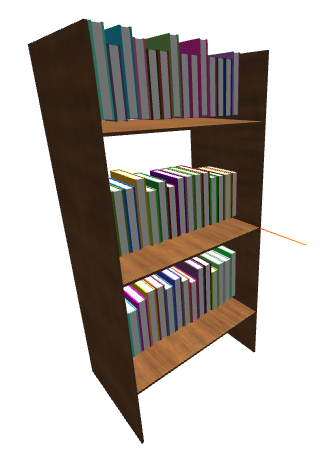
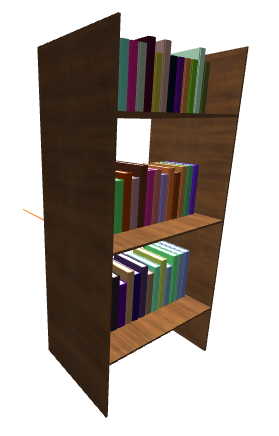
Fix position of books

diff --git a/lab1/library.html b/lab1/library.html
@@ -37,60 +37,62 @@
 			var axesHelper = new THREE.AxesHelper( 5 );
 			scene.add( axesHelper );
 
-			
+			var teste = makeShelfWithBooks();
+			scene.add(teste);
+
 			//criacao dos objetos da cena
-			var shelf = makeShelfWithBooks();
-			var positions = [-10,0,10];
-			var shelfGroup = new THREE.Group();
-			for (var i=0;i<positions.length;i++){
-				var a = shelf.clone();
-				a.position.x = positions[i];
-				a.position.y = +7.5;
-				shelfGroup.add(a);
-			}
-			scene.add(shelfGroup);
+			// var shelf = makeShelfWithBooks();
+			// var positions = [-10,0,10];
+			// var shelfGroup = new THREE.Group();
+			// for (var i=0;i<positions.length;i++){
+			// 	var a = shelf.clone();
+			// 	a.position.x = positions[i];
+			// 	a.position.y = +7.5;
+			// 	shelfGroup.add(a);
+			// }
+			// scene.add(shelfGroup);
 
-			var desk = makeDesk();
-			var positions = [-15,0,15];
-			var position_z =  25
-			var deskGroup = new THREE.Group();
-			for (var i=0;i<positions.length;i++){
-				var a = desk.clone();
-				a.position.x = positions[i];
-				a.position.z = position_z;
-				a.position.y = 0;
-				deskGroup.add(a);
-			}
-			scene.add(deskGroup);
+			// var desk = makeDesk();
+			// var positions = [-15,0,15];
+			// var position_z =  25
+			// var deskGroup = new THREE.Group();
+			// for (var i=0;i<positions.length;i++){
+			// 	var a = desk.clone();
+			// 	a.position.x = positions[i];
+			// 	a.position.z = position_z;
+			// 	a.position.y = 0;
+			// 	deskGroup.add(a);
+			// }
+			// scene.add(deskGroup);
 
-			var chair = makeChair();
-			var positions = [-15,0,15];
-			var position_z =  23
-			var chairGroup = new THREE.Group();
-			for (var i=0;i<positions.length;i++){
-				var a = chair.clone();
-				a.position.x = positions[i]+2;
-				a.position.z = position_z;
-				a.position.y = 0;
-				chairGroup.add(a);
-			}
-			scene.add(chairGroup);
+			// var chair = makeChair();
+			// var positions = [-15,0,15];
+			// var position_z =  23
+			// var chairGroup = new THREE.Group();
+			// for (var i=0;i<positions.length;i++){
+			// 	var a = chair.clone();
+			// 	a.position.x = positions[i]+2;
+			// 	a.position.z = position_z;
+			// 	a.position.y = 0;
+			// 	chairGroup.add(a);
+			// }
+			// scene.add(chairGroup);
 
-			var circle = makeCircle();
-			var positions = [-15,0,15];
-			var position_z =  -25
-			var circleGroup = new THREE.Group();
-			for (var i=0;i<positions.length;i++){
-				var a = circle.clone();
-				a.position.x = positions[i];
-				a.position.z = position_z;
-				a.position.y = 0;
-				circleGroup.add(a);
-			}
-			scene.add(circleGroup);
+			// var circle = makeCircle();
+			// var positions = [-15,0,15];
+			// var position_z =  -25
+			// var circleGroup = new THREE.Group();
+			// for (var i=0;i<positions.length;i++){
+			// 	var a = circle.clone();
+			// 	a.position.x = positions[i];
+			// 	a.position.z = position_z;
+			// 	a.position.y = 0;
+			// 	circleGroup.add(a);
+			// }
+			// scene.add(circleGroup);
 
-			var floor = makeFloor();
-			scene.add(floor);
+			// var floor = makeFloor();
+			// scene.add(floor);
 
 			// // paredes
 			// planegeom=new THREE.PlaneGeometry(50,70)

diff --git a/lab1/makeShelfWithBooks.js b/lab1/makeShelfWithBooks.js
@@ -1,10 +1,10 @@
 function makeShelfWithBooks() {
-    g_chairs=new THREE.Group()
+    shelfGroup=new THREE.Group()
     var shelf = makeShelf();
     var book = makeBook();
     var z_0 = 0.45;
     var number_of_books = 15;
-    var heightOfBook = 3;
+    var heightOfBook = 2.5;
     var height = [-4.8,0,4.8];
     for(var j=0;j<height.length;j++){
         for(var i=0;i<number_of_books;i++){
@@ -17,11 +17,11 @@ function makeShelfWithBooks() {
             }
             a.children[3].material.color.setHex(0xFFFFFF);
             a.scale.set(1,randomScale,1);
-            a.position.z = z_0*i + 0.03;
-            a.position.y = height[j] + (heightOfBook*randomScale)/2;
-            g_chairs.add(a);
+            a.position.z = z_0*i + 0.075;
+            a.position.y = height[j] + (heightOfBook*randomScale)/2 + 0.1/2;
+            shelfGroup.add(a);
         }
     }
-    g_chairs.add(shelf);
-    return g_chairs;
+    shelfGroup.add(shelf);
+    return shelfGroup;
 }
